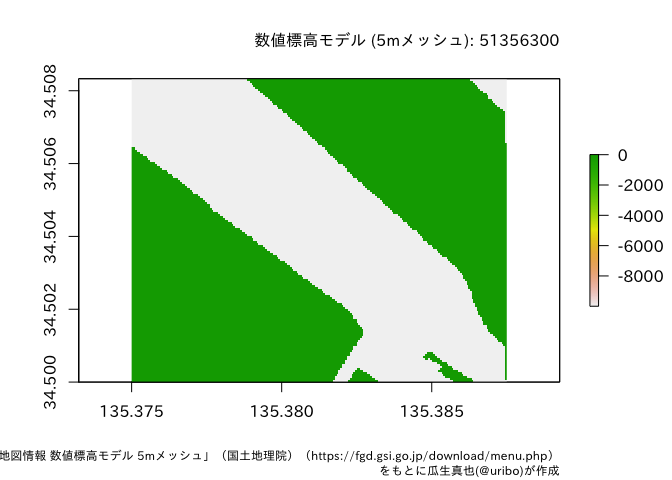
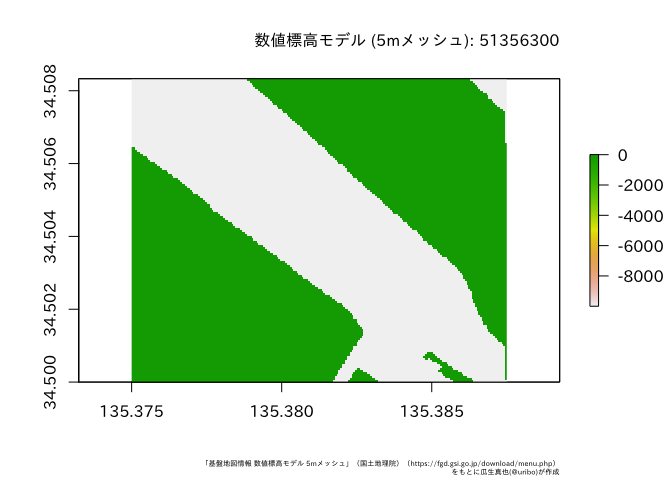
Tweak chunk param

Changed region(s): [[0.0, 0.9375, 0.8438, 1.0]]

diff --git a/README.md b/README.md
@@ -89,10 +89,20 @@ read_fgd_dem("FG-GML-5135-63-00-DEM5A-20161001.xml",
              resolution = 5)
 ```
 
-``` r
-read_fgd_dem("data-raw/FG-GML-5135-63-DEM5A/FG-GML-5135-63-00-DEM5A-20161001.xml", 
-             resolution = 5)
-```
+    #> # A tibble: 33,750 x 2
+    #>    type       value
+    #>    <chr>      <dbl>
+    #>  1 データなし -9999
+    #>  2 データなし -9999
+    #>  3 データなし -9999
+    #>  4 データなし -9999
+    #>  5 データなし -9999
+    #>  6 データなし -9999
+    #>  7 データなし -9999
+    #>  8 データなし -9999
+    #>  9 データなし -9999
+    #> 10 データなし -9999
+    #> # ... with 33,740 more rows
 
 デフォルトでは返り値のオブジェクトがデータフレームですが、これは引数`return_class
 =`によりrasterを選ぶことも可能です。rasterとして読み込み、可視化する例を示します。
@@ -110,7 +120,7 @@ plot(r)
 title(main = "数値標高モデル (5mメッシュ): 51356300",
       sub = "「基盤地図情報 数値標高モデル 5mメッシュ」（国土地理院）（https://fgd.gsi.go.jp/download/menu.php）\nをもとに瓜生真也(@uribo)が作成",
       cex.main = 1,
-      cex.sub = 0.75,
+      cex.sub = 0.45,
       adj = 1)
 ```
 
@@ -126,19 +136,14 @@ read_fgd_dem("FG-GML-5440-10-dem10b-20161001.xml",
              return_class = "raster")
 ```
 
-``` r
-read_fgd_dem("data-raw/FG-GML-5440-10-dem10b-20161001.xml", 
-             resolution = 10,
-             return_class = "raster")
-#> class       : RasterLayer 
-#> dimensions  : 750, 1125, 843750  (nrow, ncol, ncell)
-#> resolution  : 0.0001111111, 0.00011112  (x, y)
-#> extent      : 140, 140.125, 36.08333, 36.16667  (xmin, xmax, ymin, ymax)
-#> coord. ref. : +proj=longlat +datum=WGS84 +no_defs +ellps=WGS84 +towgs84=0,0,0 
-#> data source : in memory
-#> names       : layer 
-#> values      : -9999, 316  (min, max)
-```
+    #> class       : RasterLayer 
+    #> dimensions  : 750, 1125, 843750  (nrow, ncol, ncell)
+    #> resolution  : 0.0001111111, 0.00011112  (x, y)
+    #> extent      : 140, 140.125, 36.08333, 36.16667  (xmin, xmax, ymin, ymax)
+    #> coord. ref. : +proj=longlat +datum=WGS84 +no_defs +ellps=WGS84 +towgs84=0,0,0 
+    #> data source : in memory
+    #> names       : layer 
+    #> values      : -9999, 316  (min, max)
 
 ## ライセンス
 
